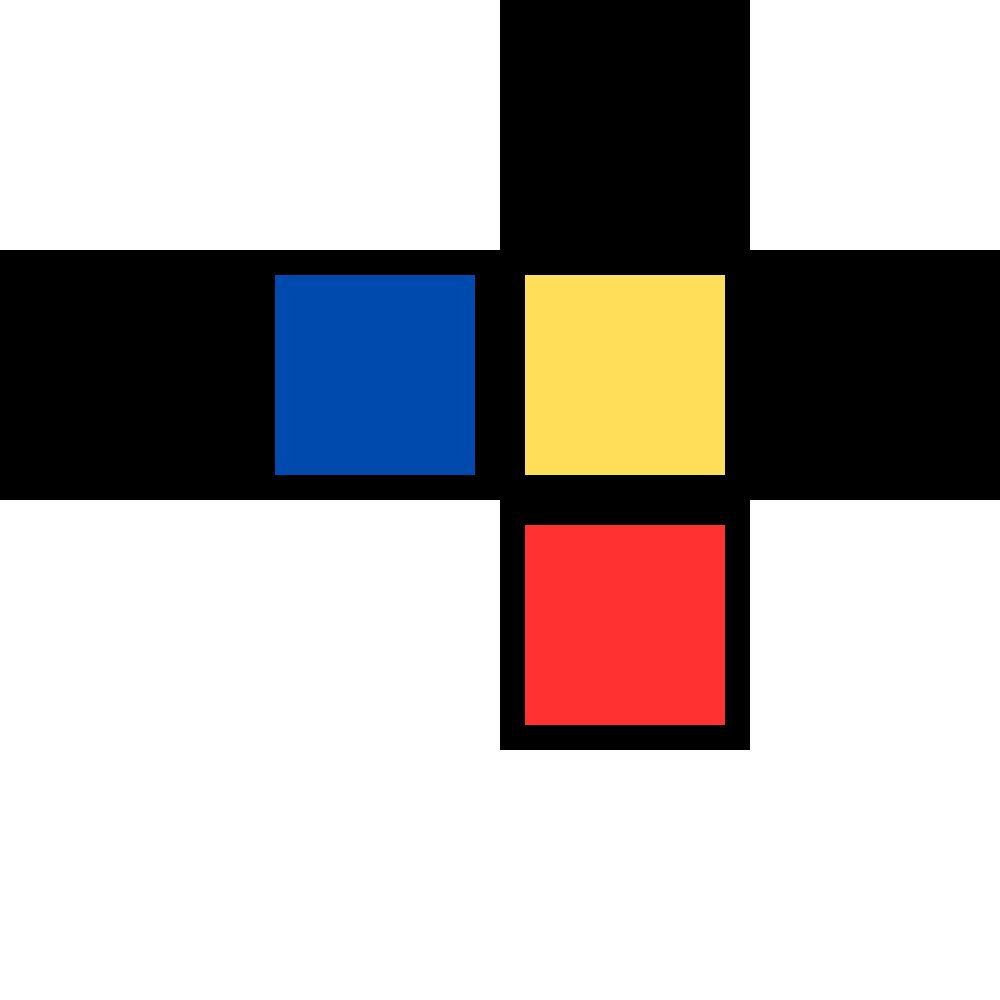
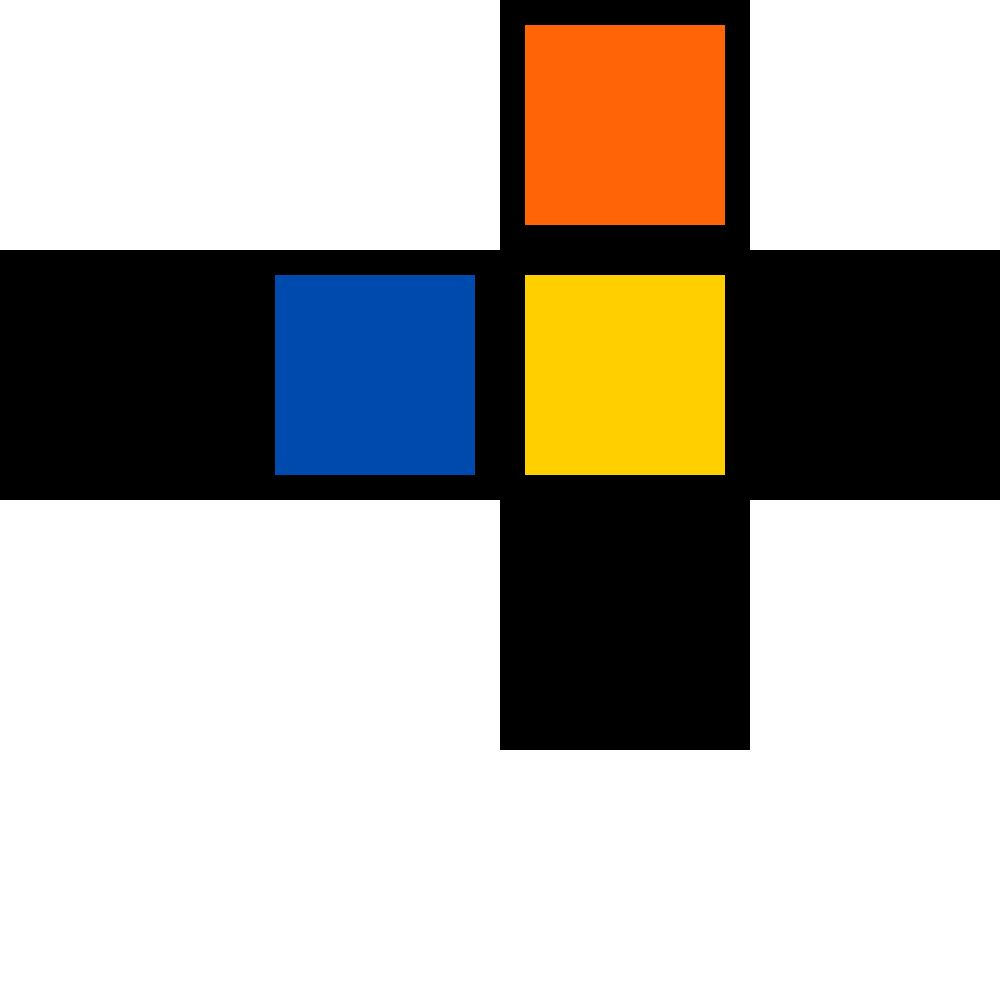
update correct texture for all cubes

Changed region(s): [[0.527, 0.0, 0.744, 0.744]]

diff --git a/src/main.cpp b/src/main.cpp
@@ -3,6 +3,7 @@
 #include <fstream>
 #include <string>
 #include <cmath>
+#include <map>
 
 #include <glad/glad.h>
 #define GLFW_INCLUDE_NONE
@@ -245,8 +246,9 @@ GLuint registerMesh(const Mesh& mesh) {
 struct Cube {
     float curRot = 0.0f;
     glm::vec3 cubePos = glm::vec3(0.0f, 0.0f, 0.0f);
-    int curStage = 0;
-    Cube(glm::vec3 cubePos, float curRot, int curStage) : cubePos(cubePos), curRot(curRot), curStage(curStage) {}
+    int curState = 0;
+    GLuint textureID;
+    Cube(glm::vec3 cubePos, float curRot, int curState, GLuint textureID) : cubePos(cubePos), curRot(curRot), curState(curState), textureID(textureID) {}
 };
 
 void renderCube(Cube cube, glm::vec3 cameraPos, GLuint shaderProgram) {
@@ -345,6 +347,9 @@ void renderCube(Cube cube, glm::vec3 cameraPos, GLuint shaderProgram) {
     glUniformMatrix4fv(modelLoc, 1, GL_FALSE, glm::value_ptr(model));
     glUniformMatrix4fv(viewLoc, 1, GL_FALSE, &view[0][0]);
     glUniformMatrix4fv(projectionLoc, 1, GL_FALSE, &projection[0][0]);
+
+    glActiveTexture(GL_TEXTURE0); // Activate texture unit
+    glBindTexture(GL_TEXTURE_2D, cube.textureID); // Bind the cube's texture
 }
 
 void drawMesh(GLuint drawableId, GLuint totalIndicies) {
@@ -355,6 +360,46 @@ void drawMesh(GLuint drawableId, GLuint totalIndicies) {
     glBindVertexArray(drawableId);
     glDrawElements(GL_TRIANGLES, totalIndicies, GL_UNSIGNED_INT, 0);
 }
+
+GLuint loadTexture(const char* path, GLuint shaderProgram) {
+    GLuint textureID;
+    glGenTextures(1, &textureID);
+
+    glBindTexture(GL_TEXTURE_2D, textureID);
+    glTexParameteri(GL_TEXTURE_2D, GL_TEXTURE_WRAP_S, GL_REPEAT);
+    glTexParameteri(GL_TEXTURE_2D, GL_TEXTURE_WRAP_T, GL_REPEAT);
+    glTexParameteri(GL_TEXTURE_2D, GL_TEXTURE_MIN_FILTER, GL_LINEAR_MIPMAP_LINEAR);
+    glTexParameteri(GL_TEXTURE_2D, GL_TEXTURE_MAG_FILTER, GL_LINEAR);
+
+    int width, height, nrChannels;
+    unsigned char* data = stbi_load(path, &width, &height, &nrChannels, 0);
+    if (data)
+    {
+        glTexImage2D(GL_TEXTURE_2D, 0, GL_RGB, width, height, 0, GL_RGB, GL_UNSIGNED_BYTE, data);
+        glGenerateMipmap(GL_TEXTURE_2D);
+    }
+    else
+    {
+        std::cout << "Failed to load texture" << path << std::endl;
+    }
+
+    stbi_image_free(data);
+    GLuint textureLocation = glGetUniformLocation(shaderProgram, "ourTexture");
+    glUniform1i(textureLocation, 0); 
+
+    return textureID;
+}
+
+enum class StatePos {
+    pos_0,
+    pos_1,
+    pos_2,
+    pos_3,
+    pos_4,
+    pos_5,
+    pos_6,
+    pos_7
+};
 
 int main() {
     std::cout << "Hello OpenGL" << std::endl;
@@ -397,12 +442,12 @@ int main() {
         //Cube 1
         
         //top, yellow
-        {-0.5f, -0.5f,  0.5f,  0.5f, 0.5f},
-        { 0.5f, -0.5f,  0.5f,  0.75f,  0.5f},
-        { 0.5f,  0.5f,  0.5f,  0.75f,  0.25f},
-        { 0.5f,  0.5f,  0.5f,  0.75f,  0.25f},
-        {-0.5f,  0.5f,  0.5f,  0.5f, 0.25f},
-        {-0.5f, -0.5f,  0.5f,  0.5f, 0.5f},
+        {-0.5f, -0.5f,  0.5f,  0.5f,  0.5f},
+        { 0.5f, -0.5f,  0.5f,  0.75f, 0.5f},
+        { 0.5f,  0.5f,  0.5f,  0.75f, 0.25f},
+        { 0.5f,  0.5f,  0.5f,  0.75f, 0.25f},
+        {-0.5f,  0.5f,  0.5f,  0.5f,  0.25f},
+        {-0.5f, -0.5f,  0.5f,  0.5f,  0.5f},
 
         // bottom black
         {-0.5f, -0.5f, -0.5f,  0.0f,   0.5f},
@@ -421,12 +466,12 @@ int main() {
         {-0.5f, -0.5f, -0.5f,  0.5f,   0.75f},  
 
         // Left blue (square 6)
-        {-0.5f,  0.5f, -0.5f,  0.25f,  0.5f},
-        {-0.5f,  0.5f,  0.5f,  0.5f, 0.5f},
-        {-0.5f, -0.5f,  0.5f,  0.5f, 0.25f},
-        {-0.5f, -0.5f,  0.5f,  0.5f, 0.25f},
-        {-0.5f, -0.5f, -0.5f,  0.25f,  0.25f},
-        {-0.5f,  0.5f, -0.5f,  0.25f,  0.5f},
+        {-0.5f,  0.5f, -0.5f,  0.25f, 0.5f},
+        {-0.5f,  0.5f,  0.5f,  0.5f,  0.5f},
+        {-0.5f, -0.5f,  0.5f,  0.5f,  0.25f},
+        {-0.5f, -0.5f,  0.5f,  0.5f,  0.25f},
+        {-0.5f, -0.5f, -0.5f,  0.25f, 0.25f},
+        {-0.5f,  0.5f, -0.5f,  0.25f, 0.5f},
 
         // back face (square 7)
         {-0.5f,  0.5f,  0.5f, 0.5f,   0.25f}, 
@@ -437,12 +482,12 @@ int main() {
         {-0.5f,  0.5f,  0.5f, 0.5f,   0.25f}, 
 
         // Right black (square 8)
-        { 0.5f,  0.5f,  0.5f,  0.75f,  0.5f},
-        { 0.5f,  0.5f, -0.5f,  1.0f, 0.5f},
-        { 0.5f, -0.5f, -0.5f,  1.0f, 0.25f},
-        { 0.5f, -0.5f, -0.5f,  1.0f, 0.25f},
-        { 0.5f, -0.5f,  0.5f,  0.75f,  0.25f},
-        { 0.5f,  0.5f,  0.5f,  0.75f,  0.5f}
+        { 0.5f,  0.5f,  0.5f,  0.75f, 0.5f},
+        { 0.5f,  0.5f, -0.5f,  1.0f,  0.5f},
+        { 0.5f, -0.5f, -0.5f,  1.0f,  0.25f},
+        { 0.5f, -0.5f, -0.5f,  1.0f,  0.25f},
+        { 0.5f, -0.5f,  0.5f,  0.75f, 0.25f},
+        { 0.5f,  0.5f,  0.5f,  0.75f, 0.5f}
 
         //Cube 2
         // {0.5f, -0.5f, -0.5f,  0.0f, 0.0f},  // 36
@@ -508,42 +553,61 @@ int main() {
     };
     
     GLuint mesh1 = registerMesh(raw_mesh);
-    GLuint mesh2 = registerMesh(raw_mesh);
-    GLuint mesh3 = registerMesh(raw_mesh);
-    GLuint mesh4 = registerMesh(raw_mesh);
-    GLuint mesh5 = registerMesh(raw_mesh);
-    GLuint mesh6 = registerMesh(raw_mesh);
-    GLuint mesh7 = registerMesh(raw_mesh);
-    GLuint mesh8 = registerMesh(raw_mesh);
+    // GLuint mesh2 = registerMesh(raw_mesh);
+    // GLuint mesh3 = registerMesh(raw_mesh);
+    // GLuint mesh4 = registerMesh(raw_mesh);
+    // GLuint mesh5 = registerMesh(raw_mesh);
+    // GLuint mesh6 = registerMesh(raw_mesh);
+    // GLuint mesh7 = registerMesh(raw_mesh);
+    // GLuint mesh8 = registerMesh(raw_mesh);
 
-    //TEXTURE
-    unsigned int texture;
-    glGenTextures(1, &texture);
-    glBindTexture(GL_TEXTURE_2D, texture);
-    // set the texture wrapping/filtering options (on the currently bound texture object)
-    glTexParameteri(GL_TEXTURE_2D, GL_TEXTURE_WRAP_S, GL_REPEAT);	
-    glTexParameteri(GL_TEXTURE_2D, GL_TEXTURE_WRAP_T, GL_REPEAT);
-    glTexParameteri(GL_TEXTURE_2D, GL_TEXTURE_MIN_FILTER, GL_LINEAR_MIPMAP_LINEAR);
-    glTexParameteri(GL_TEXTURE_2D, GL_TEXTURE_MAG_FILTER, GL_LINEAR);
-    // load and generate the texture
-    int width, height, nrChannels;
-    unsigned char *data = stbi_load("../resource/cube1.jpg", &width, &height, &nrChannels, 0);
-    if (data)
-    {
-        glTexImage2D(GL_TEXTURE_2D, 0, GL_RGB, width, height, 0, GL_RGB, GL_UNSIGNED_BYTE, data);
-        glGenerateMipmap(GL_TEXTURE_2D);
-    }
-    else
-    {
-        std::cout << "Failed to load texture" << std::endl;
-    }
-    stbi_image_free(data);
 
-    GLuint textureLocation = glGetUniformLocation(shaderProgram, "ourTexture");
-    glUniform1i(textureLocation, 0); // Bind the texture to texture unit 0
+    // //TEXTURE
+    // unsigned int texture;
+    // glGenTextures(1, &texture);
+    // glBindTexture(GL_TEXTURE_2D, texture);
+    // // set the texture wrapping/filtering options (on the currently bound texture object)
+    // glTexParameteri(GL_TEXTURE_2D, GL_TEXTURE_WRAP_S, GL_REPEAT);	
+    // glTexParameteri(GL_TEXTURE_2D, GL_TEXTURE_WRAP_T, GL_REPEAT);
+    // glTexParameteri(GL_TEXTURE_2D, GL_TEXTURE_MIN_FILTER, GL_LINEAR_MIPMAP_LINEAR);
+    // glTexParameteri(GL_TEXTURE_2D, GL_TEXTURE_MAG_FILTER, GL_LINEAR);
+    // // load and generate the texture
+    // int width, height, nrChannels;
+    // unsigned char *data = stbi_load("../resource/cube1.jpg", &width, &height, &nrChannels, 0);
+    // if (data)
+    // {
+    //     glTexImage2D(GL_TEXTURE_2D, 0, GL_RGB, width, height, 0, GL_RGB, GL_UNSIGNED_BYTE, data);
+    //     glGenerateMipmap(GL_TEXTURE_2D);
+    // }
+    // else
+    // {
+    //     std::cout << "Failed to load texture" << std::endl;
+    // }
+    // stbi_image_free(data);
+
+    // GLuint textureLocation = glGetUniformLocation(shaderProgram, "ourTexture");
+    // glUniform1i(textureLocation, 0); // Bind the texture to texture unit 0
 
     //TRANSFORM
     // unsigned int transformLoc = glGetUniformLocation(shaderProgram, "transform"); //new
+    std::map<StatePos,glm::vec3> posFromState;
+    posFromState[StatePos::pos_0] = glm::vec3(0.5f, 0.5f, 0.5f);
+    posFromState[StatePos::pos_1] = glm::vec3(-0.5f, 0.5f, 0.5f); 
+    posFromState[StatePos::pos_2] = glm::vec3(-0.5f, -0.5f, 0.5f);
+    posFromState[StatePos::pos_3] = glm::vec3(0.5f, -0.5f, 0.5f);
+    posFromState[StatePos::pos_4] = glm::vec3(0.5f, 0.5f, -0.5f);
+    posFromState[StatePos::pos_5] = glm::vec3(-0.5f, 0.5f, -0.5f);
+    posFromState[StatePos::pos_6] = glm::vec3(-0.5f, -0.5f, -0.5f);
+    posFromState[StatePos::pos_7] = glm::vec3(0.5f, -0.5f, -0.5f);
+
+    GLuint texture0 = loadTexture("../resource/cube0.jpg", shaderProgram);
+    GLuint texture1 = loadTexture("../resource/cube1.jpg", shaderProgram);
+    GLuint texture2 = loadTexture("../resource/cube2.jpg", shaderProgram);
+    GLuint texture3 = loadTexture("../resource/cube3.jpg", shaderProgram);
+    GLuint texture4 = loadTexture("../resource/cube4.jpg", shaderProgram);
+    GLuint texture5 = loadTexture("../resource/cube5.jpg", shaderProgram);
+    GLuint texture6 = loadTexture("../resource/cube6.jpg", shaderProgram);
+    GLuint texture7 = loadTexture("../resource/cube7.jpg", shaderProgram);
 
     //Main Event Loop
     while(!glfwWindowShouldClose(window)) {
@@ -555,20 +619,22 @@ int main() {
         glClear(GL_COLOR_BUFFER_BIT | GL_DEPTH_BUFFER_BIT);
 
         selectShaderProgram(shaderProgram);
-        Cube cube0 = Cube(glm::vec3(-0.5f, 0.5f, 0.5f),   glm::radians(0.0f),   0);
-        Cube cube1 = Cube(glm::vec3(0.5f, 0.5f, 0.5f),    glm::radians(90.0f),  1);
-        Cube cube2 = Cube(glm::vec3(-0.5f, -0.5f, 0.5f),  glm::radians(180.0f), 2);
-        Cube cube3 = Cube(glm::vec3(0.5f, -0.5f, 0.5f),   glm::radians(270.0f), 3);
-        Cube cube4 = Cube(glm::vec3(-0.5f, 0.5f, -0.5f),  glm::radians(0.0f),   4);
-        Cube cube5 = Cube(glm::vec3(0.5f, 0.5f, -0.5f),   glm::radians(90.0f),  5);
-        Cube cube6 = Cube(glm::vec3(-0.5f, -0.5f, -0.5f), glm::radians(180.0f), 6);
-        Cube cube7 = Cube(glm::vec3(0.5f, -0.5f, -0.5f),  glm::radians(270.0f), 7);
+        Cube cube0 = Cube(glm::vec3(0.5f, 0.5f, 0.5f),    glm::radians(0.0f),   0, texture0);
+        Cube cube1 = Cube(glm::vec3(-0.5f, 0.5f, 0.5f),   glm::radians(90.0f),  1, texture1);
+        Cube cube2 = Cube(glm::vec3(-0.5f, -0.5f, 0.5f),  glm::radians(180.0f), 2, texture2);
+        Cube cube3 = Cube(glm::vec3(0.5f, -0.5f, 0.5f),   glm::radians(270.0f), 3, texture3);
+        Cube cube4 = Cube(glm::vec3(0.5f, 0.5f, -0.5f),   glm::radians(0.0f),   4, texture4);
+        Cube cube5 = Cube(glm::vec3(-0.5f, 0.5f, -0.5f),  glm::radians(90.0f),  5, texture5);
+        Cube cube6 = Cube(glm::vec3(-0.5f, -0.5f, -0.5f), glm::radians(180.0f), 6, texture6);
+        Cube cube7 = Cube(glm::vec3(0.5f, -0.5f, -0.5f),  glm::radians(270.0f), 7, texture7);
 
-        std::vector<Cube> cubeData = {cube0, cube1, cube2, cube3, cube4, cube5, cube6, cube7};
+     
+        std::vector<Cube> cubeData = {cube0,cube1,cube2,cube3,cube4,cube5,cube6,cube7};
         for (auto cube : cubeData) {
             renderCube(cube, cameraPos, shaderProgram);
             drawMesh(mesh1, raw_mesh.getNumIndicies());
         }
+
         // renderCube(glm::vec3(-0.5f, 0.5f, 0.5f), glm::radians(0.0f), cameraPos, shaderProgram);   // Top face, left cubelet
         // drawMesh(mesh1, raw_mesh.getNumIndicies());
 
